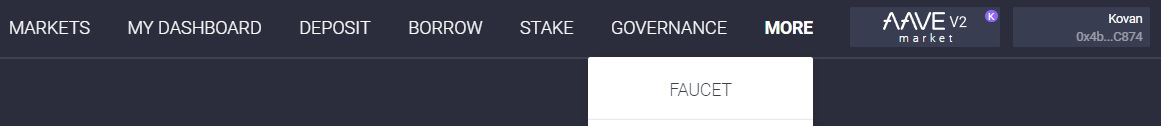
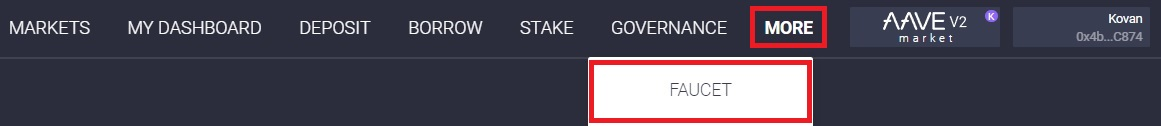
Updated README.md

Changed region(s): [[0.4961, 0.4762, 0.7132, 0.9762], [0.6202, 0.0238, 0.7132, 0.4048]]

diff --git a/README.md b/README.md
@@ -158,13 +158,15 @@ Click on `Confirm`, you should see a success notification from MetaMask. There s
 
 ![Deployed contracts](public/images/deploy-deployed_contracts.jpg)
 
-In the new `Deployed Contracts` section, you will be able to copy the deployed contract's address. 
+In the new `Deployed Contracts` section, you will be able to copy the deployed contract's address. We will need the contract address later; in the meantime, we need to fund our flash loan contract with some DAI. 
 
-We will come back to this step later; in the meantime we need to add some DAI to our Flash Loan contract. 
-
-This is because Flash Loans need funds in the contract to successfully execute. For that, you can jump to this link to get some DAI tokens (be sure to connect to the “Aave v2 Market” with a little “K” in the top right corner). Click on the faucet, paste in your MetaMask wallet address, and wait for confirmation.
+Flash Loans need funds in the contract to successfully execute. To fund our contract, you can click on this [link](https://testnet.aave.com/faucet/DAI) to get some DAI tokens. 
 
 ![Aave V2 market](public/images/fund-aave_market.jpg)
+
+Click on the `MORE` dropdown menu, and click on the `FAUCET` option. paste in your MetaMask wallet address, and wait for confirmation.
+
+
 
 
 
